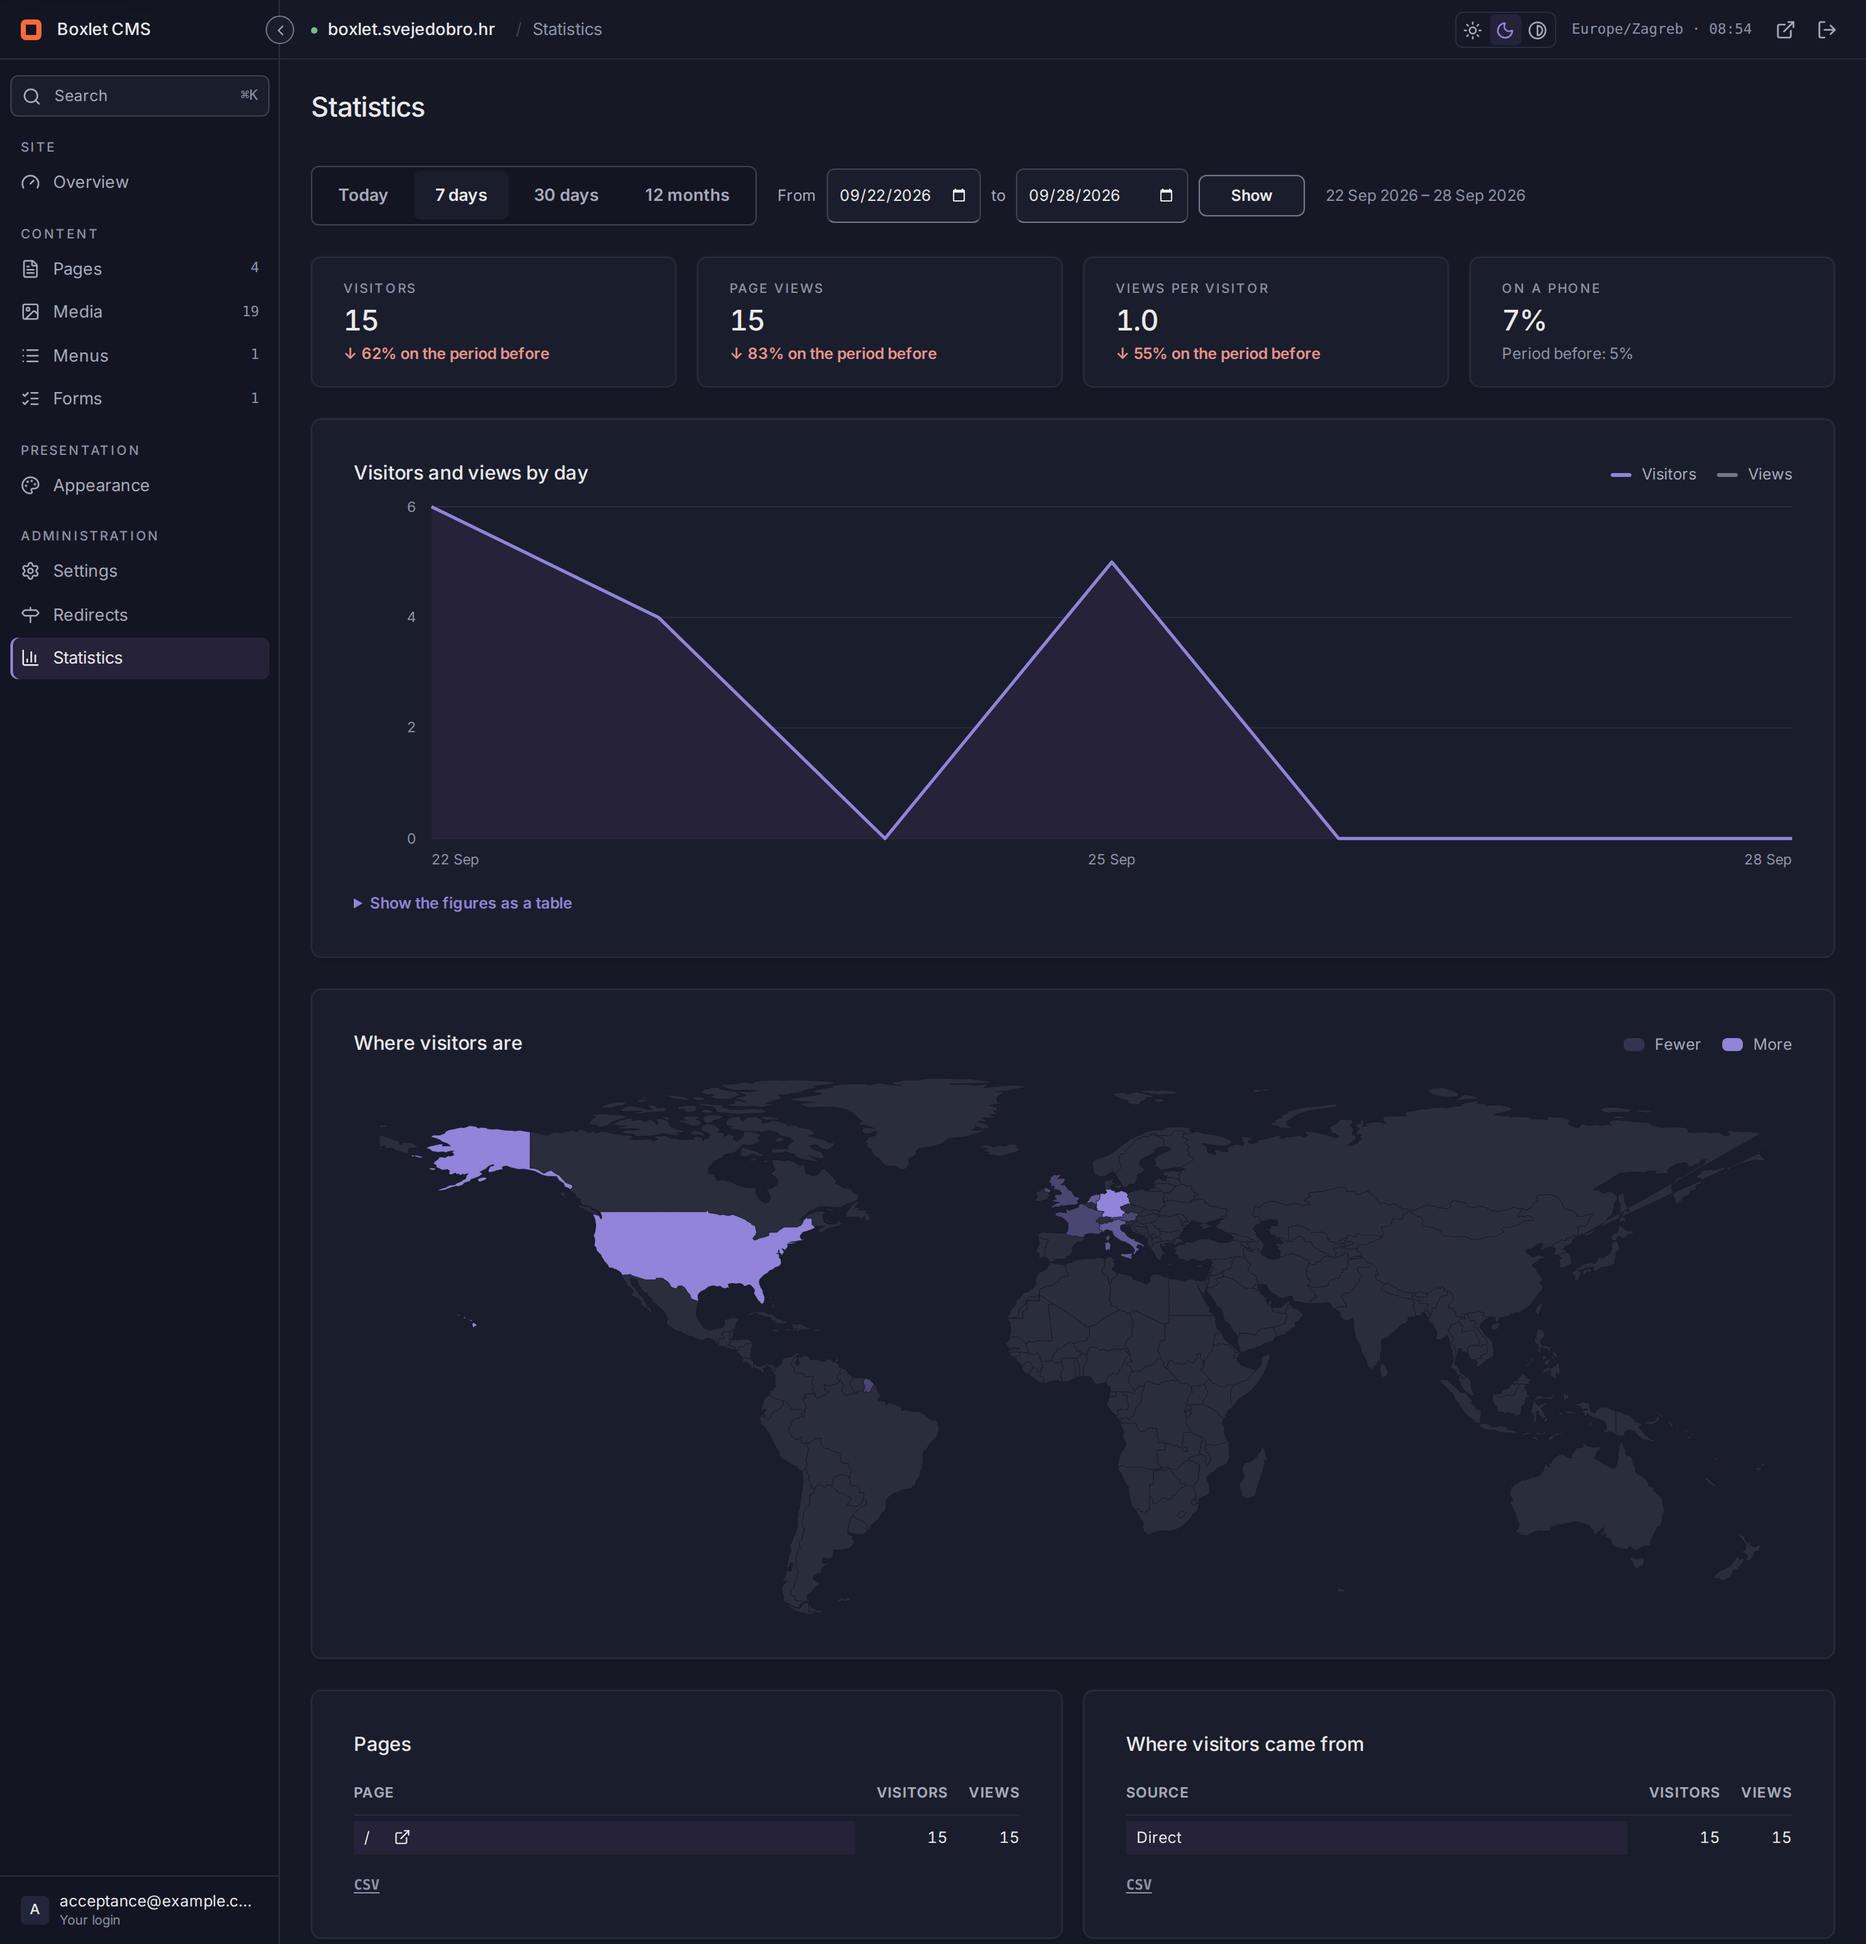
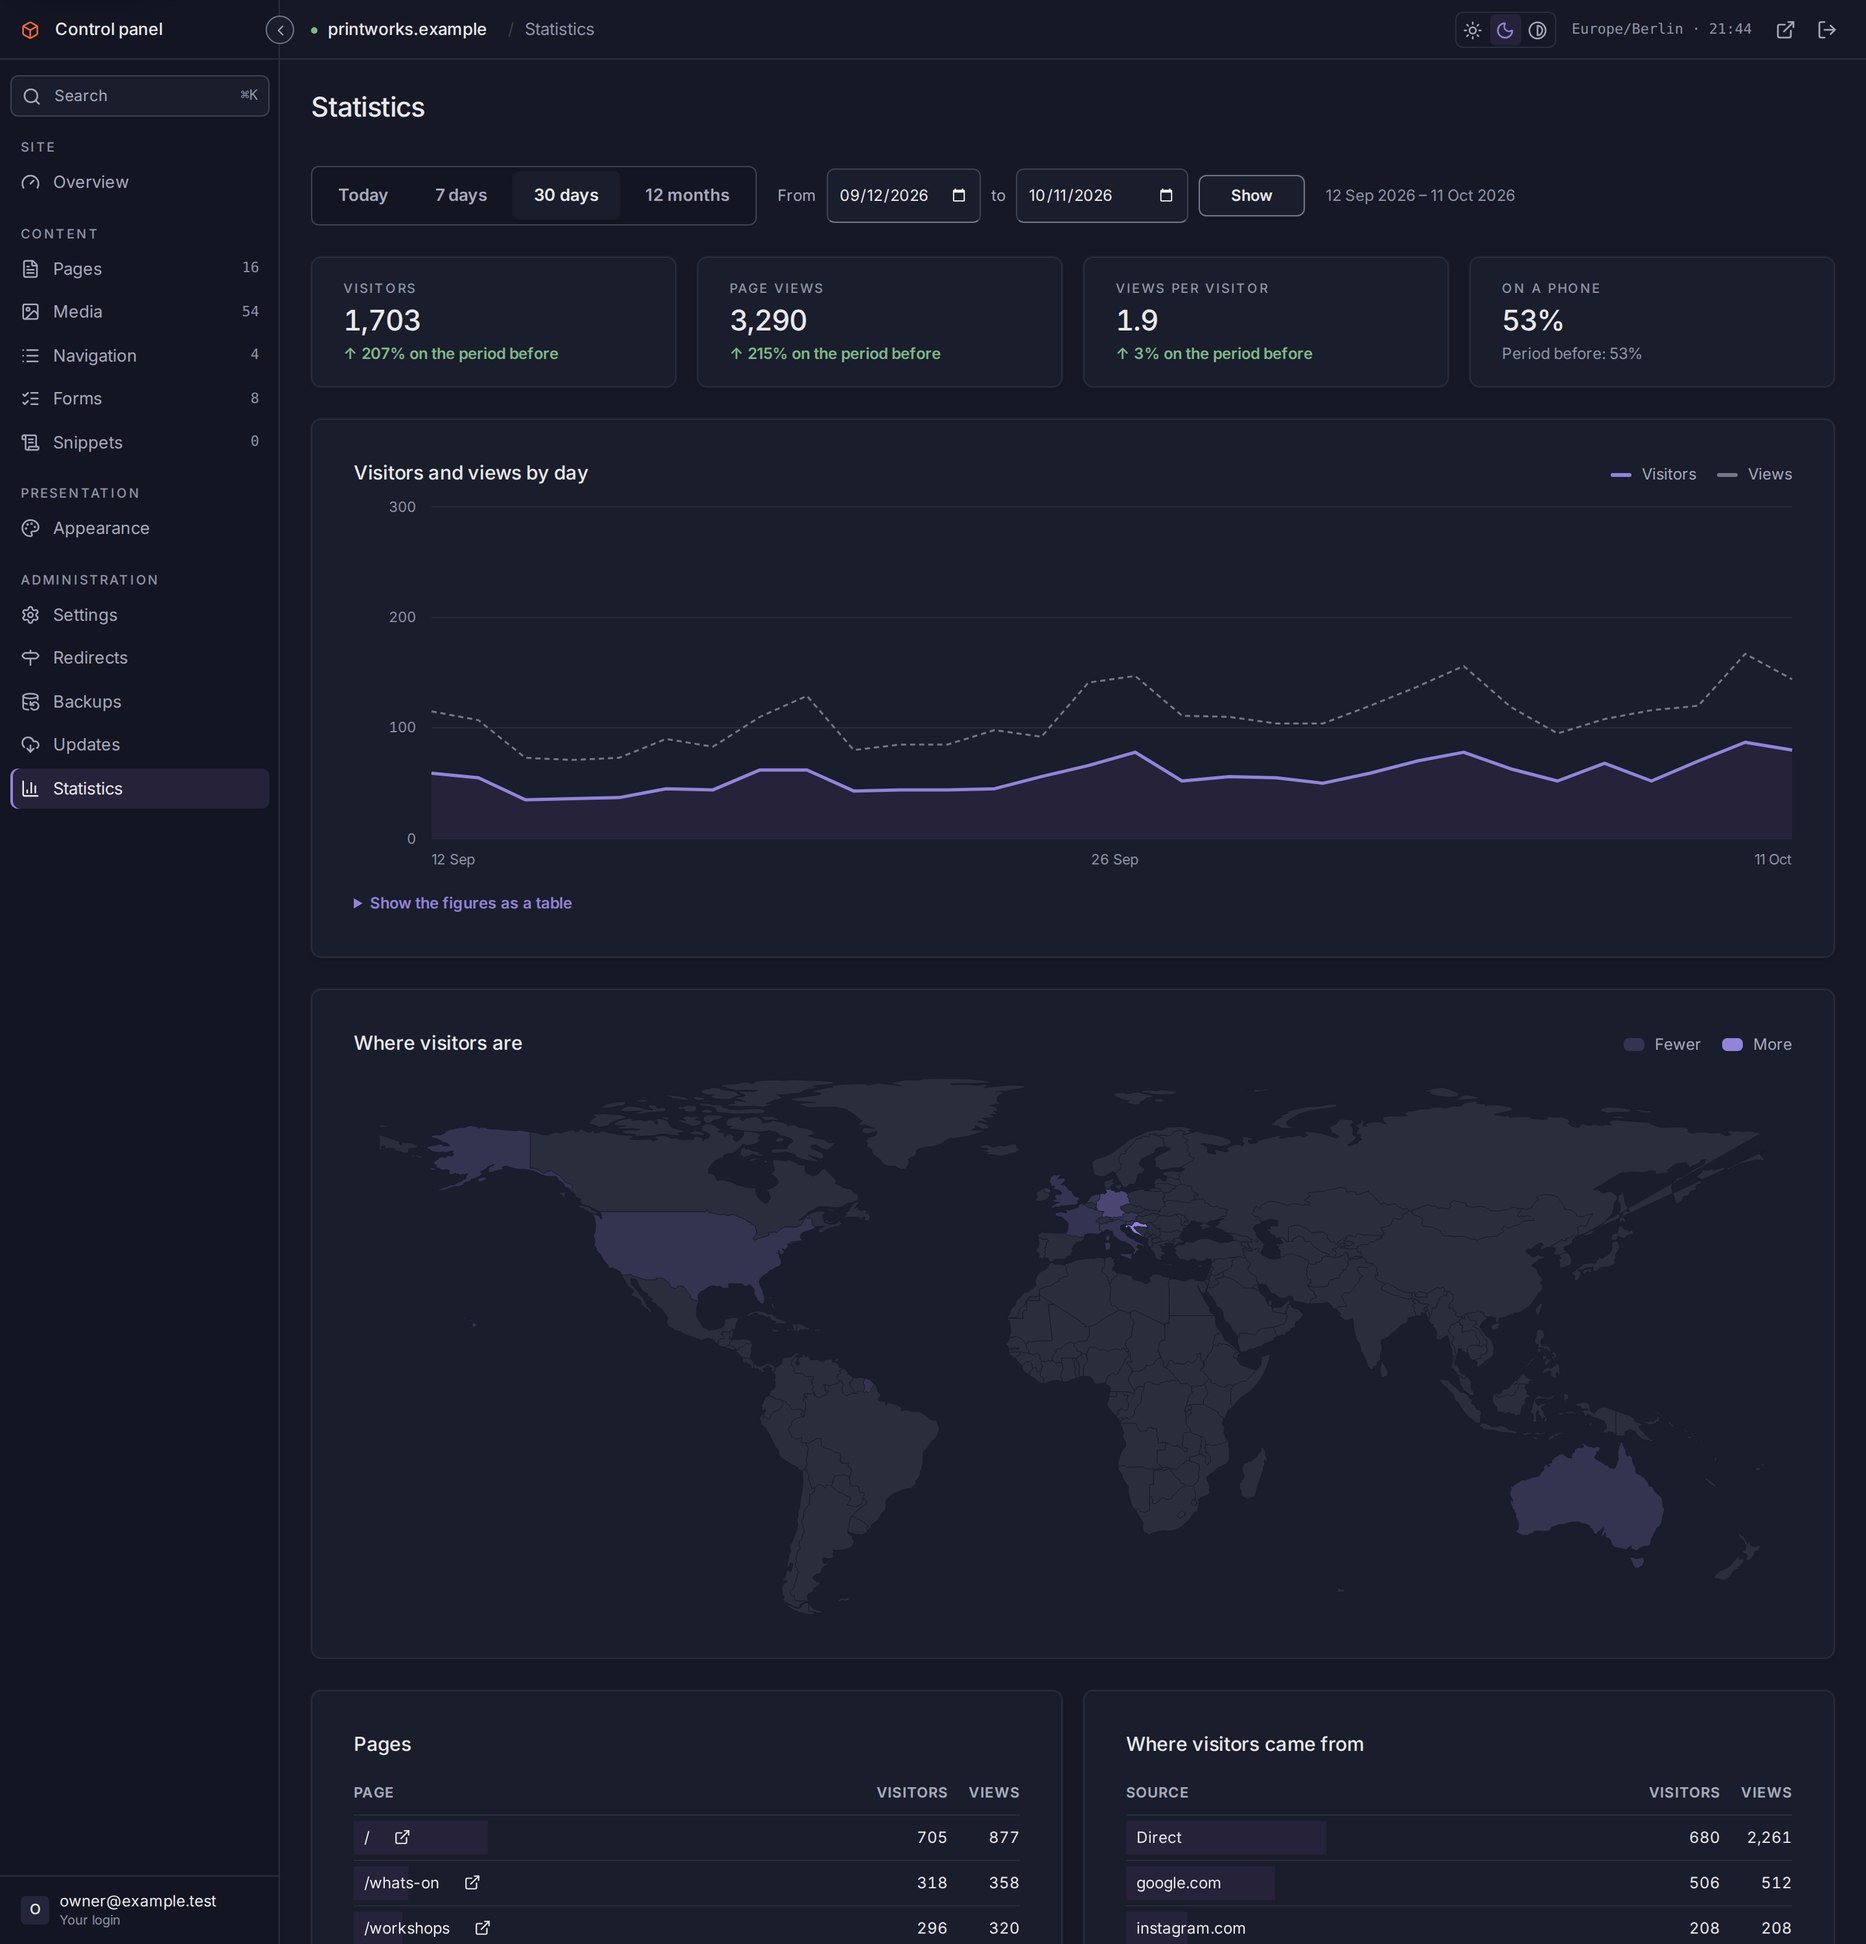
The release README says what Boxlet is now; two new pictures of the admin
Approved by the owner. Rewritten where it had fallen behind: thirteen design sets, the
builder that is the page, sections and columns, the fifteen blocks by their names, the
structure tree, patterns and templates, drafts that save themselves and the last five
versions, snippets and tags, deleting several at once, videos and maps loaded on a press,
the three small visitor scripts, one stylesheet and the browser's year, llms.txt, and the
Printworks demo with how to clear it. "Nothing is saved until you save" is gone.

The pictures, from the release candidate installed here with its demo: the builder on the
Printworks' home page (builder.jpg, now at the top), and Statistics over 30 days of sample
visits recorded through Boxlet's own tracker. overview.png stays: earlier releases' READMEs
show it.

diff --git a/tools/release/README.md b/tools/release/README.md
@@ -9,7 +9,7 @@ shell, no Composer, no Node, no build step. An FTP client and a browser are enou
 > **This is a release candidate for v0.1.** It is what v0.1 will be unless testing finds a
 > fault. From v0.1 on, updates keep your site as it is: no fresh install between versions.
 
-![The Boxlet admin: the overview screen](https://raw.githubusercontent.com/BoxletCMS/boxlet-cms-dev/main/tools/release/readme/overview.png)
+![The Boxlet page builder: the demo's home page, its hero selected](https://raw.githubusercontent.com/BoxletCMS/boxlet-cms-dev/main/tools/release/readme/builder.jpg)
 
 ## Why another CMS?
 
@@ -38,10 +38,12 @@ visitor's cookie jar stayed empty.
   the address itself.
 - **Fonts are served from your own server.** No Google Fonts, no CDN, so a visit doesn't
   report anything to anyone.
-- **YouTube videos** are embedded through `youtube-nocookie.com`, and a map can be
-  OpenStreetMap instead of Google.
-- **Almost no JavaScript** on the public site. The only script is a small one that folds the
-  menu on a phone, and it loads only when the header has a menu to fold.
+- **Videos and maps load only when pressed.** Until a visitor presses Play, nothing of
+  YouTube's, Vimeo's or Google's is loaded, and YouTube then comes from
+  `youtube-nocookie.com`. A map can be OpenStreetMap instead, which stores nothing.
+- **Almost no JavaScript** on the public site: three small scripts, each loaded only on a page
+  that needs it. One folds the menu on a phone, one starts a video or a map when it is
+  pressed, and one brings a section in as it is scrolled to, where you asked for that.
 - **A suggested privacy-policy paragraph** for the statistics, written from your own
   settings, in every language the site speaks.
 
@@ -76,12 +78,14 @@ Already using another analytics tool? Switch Boxlet's statistics off in Settings
 
 This is the part Boxlet is really about.
 
-- **Five characters.** Editorial, Minimal, Bold, Soft and Brutalist. Each one changes how a
-  page is *composed*, not just its colours: reading width, vertical rhythm, section edges,
-  and how a hero is arranged.
-- **Eight decisions.** Main colour and an optional second one, typeface pairing, type scale,
-  spacing, corners, shadows, content width and surface contrast. The whole palette is worked
-  out from those.
+- **Thirteen design sets.** Editorial, Minimal, Bold, Soft, Brutalist, Terra, Clinic,
+  Gallery, Launch, Commons, Zine, Couture and Riso. Each one changes how a page is
+  *composed*, not just its colours: reading width, vertical rhythm, section edges, how a hero
+  is arranged and which layout each block takes.
+- **Then make it yours.** A main colour and an optional second one, 27 self-hosted typefaces
+  to pair, the type scale, spacing, corners, shadows, content width and surface contrast. The
+  whole palette is worked out from your colours, for a light site or a dark one.
+- **Designs travel.** Export a design as a file and import it on another site.
 - **Contrast is enforced.** A colour combination that would make any text hard to read is
   refused, and Boxlet tells you which pair failed.
 - **Bounded on purpose.** Sections choose from a few surfaces built from your palette, so
@@ -92,17 +96,32 @@ This is the part Boxlet is really about.
 
 ## Writing pages
 
-- **A visual editor.** You edit the page on a canvas that shows it as visitors will see it,
-  add blocks from a library that shows each block as it looks, and drag them to reorder.
-- **Fifteen blocks:** hero, text, image and text, picture, gallery, columns, quote, numbers,
-  call to action, accordion, logo strip, downloads, form, video or map embed, and divider.
+- **You write on the page itself.** Click a heading and type. Select words for bold, a link,
+  a list or the alignment. What you see is what visitors get, on a computer, a tablet or a
+  phone, a press away.
+- **Sections and columns.** A page is made of sections, and a section holds one to four
+  columns: halves, thirds, quarters, two thirds and one, or a sidebar. Each section has a
+  surface (plain, tinted, contrast, a picture or a gradient), an edge (a line, a slant or a
+  curve), its spacing and height, an optional entrance animation, and can be hidden on a
+  phone, a tablet or a computer.
+- **Fifteen blocks:** hero, text, image and text, picture, gallery, cards, quote, numbers,
+  call to action, questions, logos, downloads, form, video or map, and space. Most have
+  several layouts, and each follows the design set until you choose otherwise.
+- **The structure beside the page.** Every section and block in a tree: drag a block into
+  another section or column, or a section up or down. Save a section as a pattern to use it
+  again, or start a page from one of three templates.
+- **Drafts that save themselves.** Every change is kept as a draft while you work, with undo
+  and redo, and a preview of the draft in its own tab. Publish puts it on the site. The last
+  five published versions are kept, and any of them can be restored.
+- **Snippets and tags.** Write the opening hours or a phone number once, as a snippet, and
+  place it in any text: change it once, and every page has it. `{{year}}` is always this
+  year, and the language switcher can stand inside a sentence.
 - **Rich text that stays clean.** Pasting from Word leaves no inline styles, font tags or
   leftover classes, and what's saved is checked and cleaned on the server.
 - **The page tree.** Drag a page right to put it under another, left to take it out, up or
-  down to reorder, and Undo if you change your mind. Its translations follow.
+  down to reorder, and Undo if you change your mind. Its translations follow. Tick several
+  pages to delete them at once; the menu items that led to them go too.
 - **No JavaScript? Still works.** Every page can also be edited in a plain form.
-- **Nothing is saved until you save.** If you try to leave with unsaved changes, Boxlet asks
-  first.
 
 ## Pictures and files
 
@@ -119,6 +138,8 @@ This is the part Boxlet is really about.
 - **Files as well.** PDFs, documents, spreadsheets and ZIPs sit in the same library,
   each with its own icon. The Downloads block offers them to visitors and counts the
   downloads.
+- **Tidy up in one go.** Tick pictures and files to delete them together. Anything a page
+  still shows is kept, and Boxlet tells you where it is used.
 
 ## Fast without trying
 
@@ -127,8 +148,13 @@ a computer and 98 on a phone**. SEO and best practices scored 100 on both. That 
 Boxlet had a page cache. Now it also keeps each page as a file and hands it to the next
 visitor without touching the database, and empties it the moment you change anything.
 
-It gets there by leaving things out:
+It gets there by leaving things out, and by keeping what it can:
 - **Next to no JavaScript,** so nothing blocks the page (0 ms of blocking time).
+- **One stylesheet for the whole site,** next to the one your design compiles to, instead of
+  a file per part. On Apache, Boxlet's `.htaccess` also compresses pages, styles and scripts.
+- **Kept by the browser.** Styles, scripts, fonts and pictures carry a version in their
+  address, so a browser keeps them for a year and a second visit fetches almost nothing.
+  When a file changes, its address changes with it.
 - **Pictures in AVIF and WebP** at the size the screen needs.
 - **Width and height on every picture,** so nothing jumps while the page loads.
 - **Fonts from your own server,** with no third-party requests.
@@ -144,6 +170,8 @@ It gets there by leaving things out:
   description and sharing image of its own.
 - **Structured data:** a BreadcrumbList that tells search engines where the page sits.
 - **Written for you:** `sitemap.xml` and `robots.txt` stay up to date as pages change.
+- **`llms.txt` for AI tools.** A plain list of your published pages and their descriptions,
+  in every language, kept up to date with the sitemap. One switch in Settings turns it off.
 
 ## Multilingual from day one
 
@@ -227,9 +255,16 @@ host's file manager.
 **The primary language can't be changed later**, so choose it with care.
 
 If you like, the installer adds a demo site, so you can try the design on real pages
-straight away. Its pictures are fetched from GitHub while it installs, every size already made.
-They aren't covered by the Boxlet licence; each one's source and licence is in
+straight away: **The Printworks**, an arts centre in an old printing works, in the Couture
+design set. Fourteen pages, among them one that shows every block in every layout, with the
+home page and Visit in Croatian too, its forms, menus and footer. Its pictures are fetched
+from GitHub while it installs, every size already made. They aren't covered by the Boxlet
+licence; each one's source and licence is in
 [CREDITS.md](https://github.com/BoxletCMS/boxlet-cms-dev/blob/main/demo_images/CREDITS.md).
+
+When you're ready for your own content, clear the demo in two steps: in **Pages** tick every
+page and delete them, then in **Media** choose **Unused**, tick everything and delete it. The
+demo's forms, footer words and site name are yours to change or remove.
 
 When it's done, the installer deletes itself. If it can't, it tells you, and you delete
 `public/install.php` by hand. Then log in at `/admin`.
